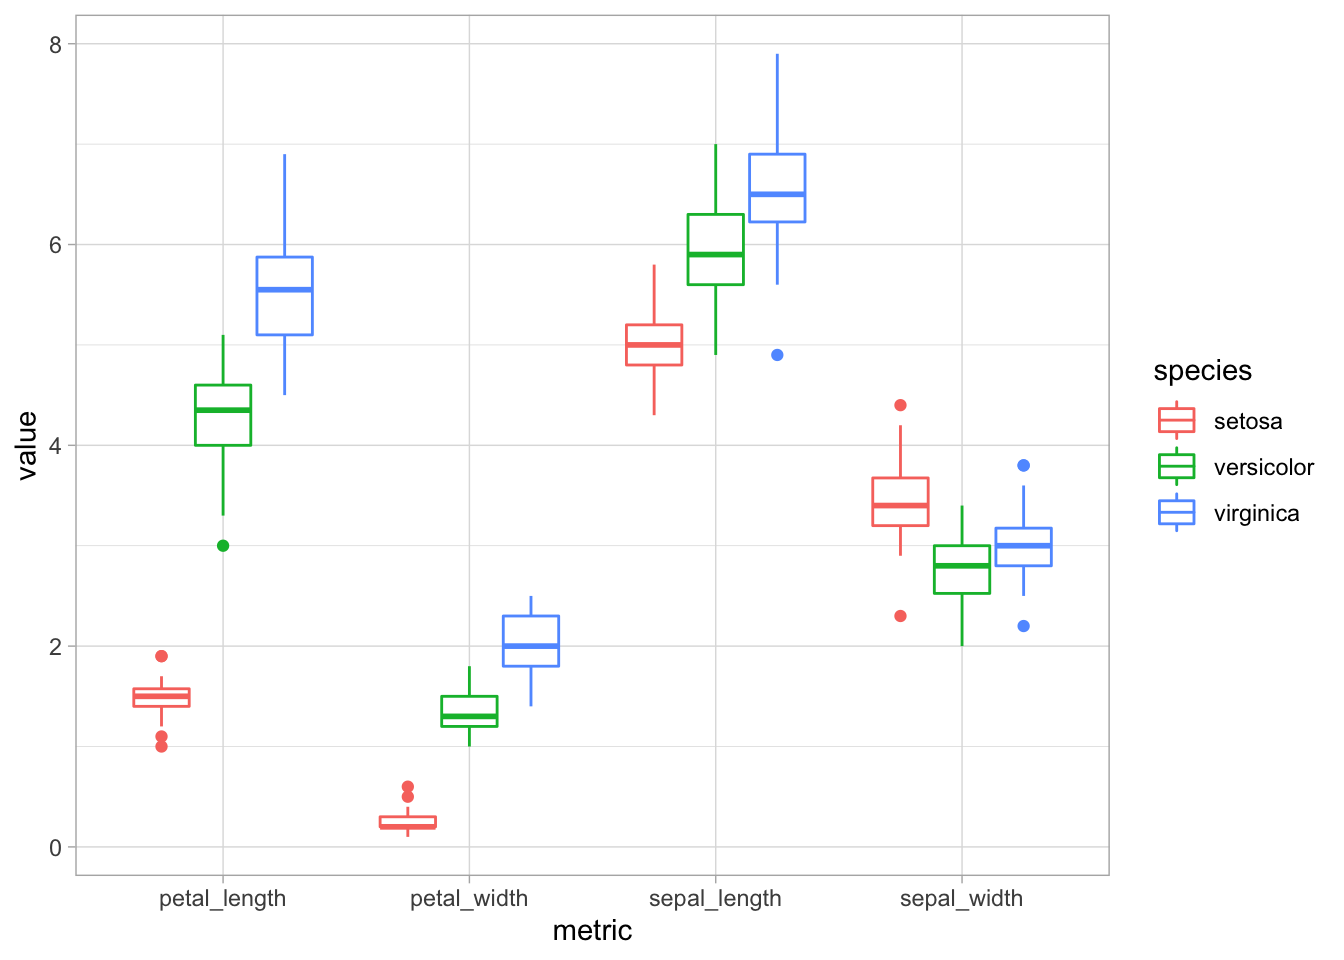
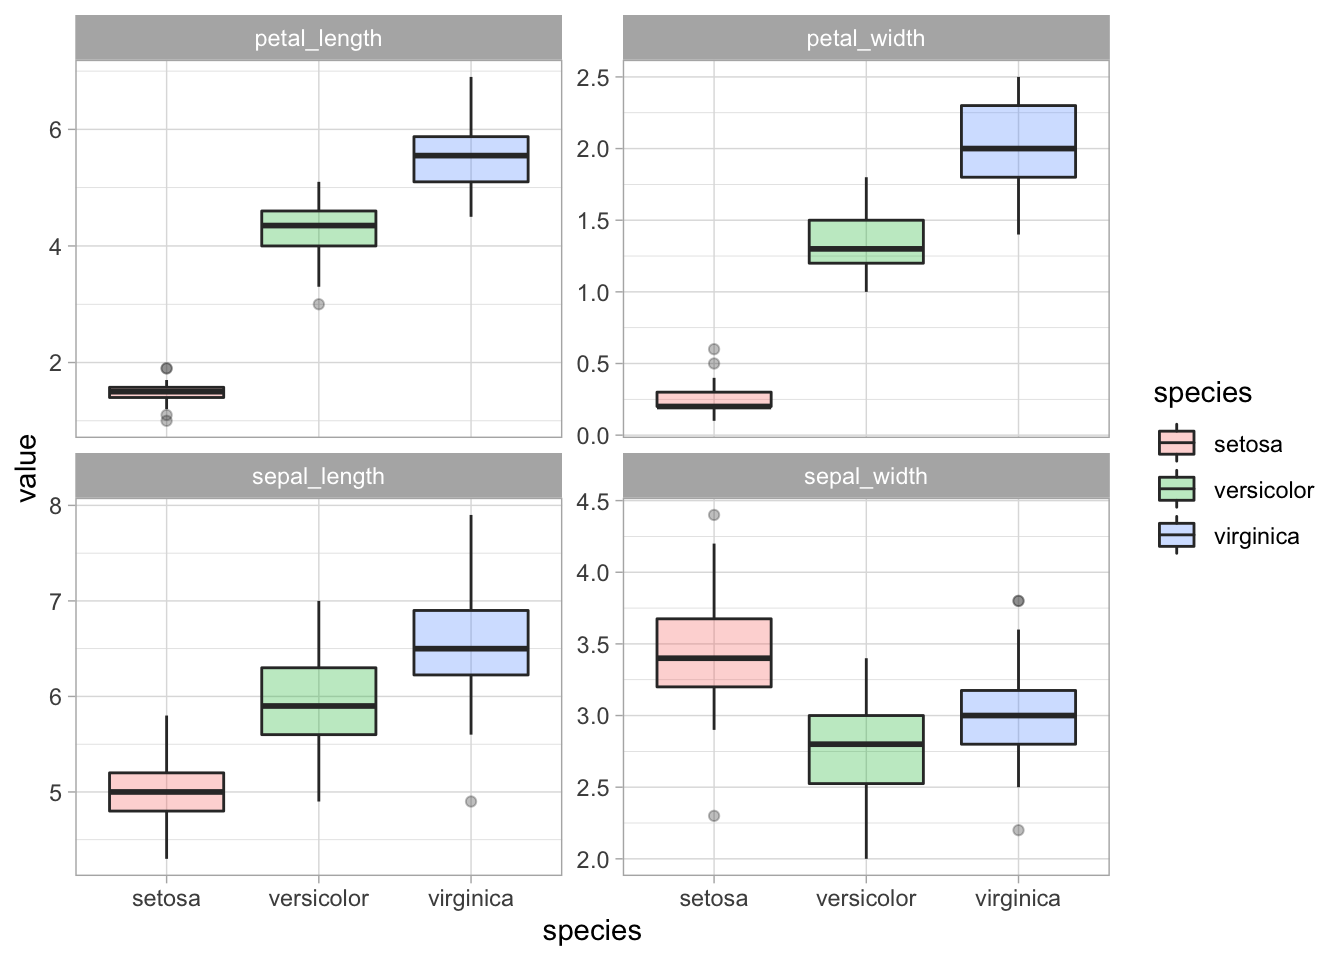
updated iris post

diff --git a/content/post/2020-10-21-iris-data/index.html b/content/post/2020-10-21-iris-data/index.html
@@ -24,8 +24,8 @@ projects: []
 <script src="{{< blogdown/postref >}}index_files/header-attrs/header-attrs.js"></script>
 
 
-<div id="iris-data" class="section level1">
-<h1>Iris data</h1>
+<div id="iris-data" class="section level2">
+<h2>Iris data</h2>
 <p>The iris dataset is a classic, so much so that it’s included in the datasets package that comes with every installation of R. You can use <code>data()</code> to see a list of all available datasets. Datasets that are associated with packages can be found in a similar way, e.g., <code>data(package = 'dplyr')</code>.</p>
 <p>Let’s take a look at the data.</p>
 <pre class="r"><code># load the iris data set and clean the column names with janitor::clean_names()
@@ -54,63 +54,85 @@ iris_df %&gt;%  str()</code></pre>
 ##  $ petal_length: num  1.4 1.4 1.3 1.5 1.4 1.7 1.4 1.5 1.4 1.5 ...
 ##  $ petal_width : num  0.2 0.2 0.2 0.2 0.2 0.4 0.3 0.2 0.2 0.1 ...
 ##  $ species     : Factor w/ 3 levels &quot;setosa&quot;,&quot;versicolor&quot;,..: 1 1 1 1 1 1 1 1 1 1 ...</code></pre>
-<p>The data is clean but with only 150 observations, it’s worth questioning whether a reliable model can be generated. There are four variables or features (sepal length and width, and petal length and width) in our data and three unique species.</p>
-<p><strong>Let’s use the data to create a classification model that predicts the species of iris based on a flower’s measurements.</strong></p>
+<p>The dataset contains three unique species of Iris and four variables or features (sepal length and width, and petal length and width). The data is clean but with only 150 observations it’s a wee bit small for training a model. To compensate for this, we will use bootstrap resampling.</p>
+<div id="outline" class="section level4">
+<h4>Outline</h4>
+<p><strong>Train a classification model to predict flower species based on the four available features</strong></p>
+<p>The model formula will have the form <code>species ~ .</code> where <code>.</code> represents all explanatory variables in the data.</p>
+</div>
 </div>
 <div id="visualize-relationships" class="section level1">
 <h1>Visualize relationships</h1>
 <p>Before we do any kind of machine learning, it’s helpful to visualize the data and develop a better understanding of the variables as well as their relationships. This will also give us a stronger intuitive sense about the potential predictive power of the data.</p>
-<pre class="r"><code>sepal &lt;- iris_df %&gt;% 
+<pre class="r"><code>library(ggforce)
+
+sepal &lt;- iris_df %&gt;% 
   ggplot(aes(sepal_length, sepal_width, color = species)) +
-  geom_point(size = 1) + facet_wrap(~species) +
+  geom_point(size = 1) + 
+  facet_wrap(~species) +
   labs(x = &#39;sepal length&#39;,
        y = &#39;sepal width&#39;) +
   theme(legend.position = &#39;none&#39;) 
 
 petal &lt;- iris_df %&gt;% 
   ggplot(aes(petal_length, petal_width, color = species)) +
-  geom_point(size =1) + facet_wrap(~species) +
+  geom_point(size =1) + 
+  facet_wrap(~species) +
   labs(x = &#39;petal length&#39;,
        y = &#39;petal width&#39;) +
   theme(legend.position = &#39;none&#39;) 
 
-(petal/sepal) # patchwork allows us to arrange plots side-by-side or stacked but there&#39;s a better way..</code></pre>
+(petal/sepal) # patchwork allows us to arrange plots side-by-side or stacked </code></pre>
 <p><img src="{{< blogdown/postref >}}index_files/figure-html/unnamed-chunk-2-1.png" width="672" /></p>
-</div>
-<div id="tidy-the-dataset" class="section level1">
-<h1>Tidy the dataset</h1>
-<p>Let’s change the shape of our data by combining the four iris features into a single column (named <code>metric</code>) and the associated values will populate a new column (named <code>value</code>). This transformation into a longer dataset can be achieved with the function <code>pivot_longer()</code>. As we shall see, the tidy format lends itself to data visualization and analysis with the tidyverse.</p>
+<pre class="r"><code>sl_sw &lt;- iris_df %&gt;% 
+  ggplot(aes(sepal_length, sepal_width, color = species)) +
+  geom_point(size = 1) +
+  labs(x = &#39;sepal length&#39;,
+       y = &#39;sepal width&#39;) +
+  theme(legend.position = &#39;none&#39;)
+
+sl_sw + 
+  geom_mark_hull(
+    aes(fill = NULL, label = species),
+    concavity = 2) +
+  labs(title = &quot;Comparing sepal length vs sepal width across species&quot;)</code></pre>
+<p><img src="{{< blogdown/postref >}}index_files/figure-html/unnamed-chunk-2-2.png" width="672" /></p>
+<pre class="r"><code>pl_pw &lt;- iris_df %&gt;% 
+  ggplot(aes(petal_length, petal_width, color = species)) +
+  geom_point(size =1) + 
+  labs(x = &#39;petal length&#39;,
+       y = &#39;petal width&#39;) +
+  theme(legend.position = &#39;none&#39;) 
+
+pl_pw + 
+  geom_mark_hull(
+    aes(fill = NULL, label = species),
+    concavity = 2) +
+  labs(title = &quot;Comparing petal length vs petal width across species&quot;)</code></pre>
+<p><img src="{{< blogdown/postref >}}index_files/figure-html/unnamed-chunk-2-3.png" width="672" /></p>
+<p>Let’s change the shape of our data by combining the four iris features into a single column (<code>metric</code>) and the associated values will populate a new column (<code>value</code>). This transformation into a longer dataset can be achieved with the function <code>pivot_longer()</code>.</p>
 <pre class="r"><code>iris_df_long &lt;- iris_df %&gt;%  
   pivot_longer(cols = sepal_length:petal_width,
                names_to = &#39;metric&#39;,
                values_to =&#39;value&#39;) 
-# A boxplot is a great way to see the median values of our features by species.
-iris_df_long %&gt;% 
-  ggplot(aes(metric, value, color = species)) +
-  geom_boxplot() </code></pre>
-<p><img src="{{< blogdown/postref >}}index_files/figure-html/unnamed-chunk-3-1.png" width="672" /></p>
-<pre class="r"><code># A nice alternative is to facet by the metric to convey the same information but with added clarity. 
+
+
+# A boxplot is a great way to compare the distribution of each features by species.
 iris_df_long %&gt;%
-  ggplot(aes(species, value, color = species)) +
+  ggplot(aes(species, value, fill = species)) +
   geom_boxplot(alpha = 0.3) +
   facet_wrap(~ metric, scales = &quot;free_y&quot;)</code></pre>
-<p><img src="{{< blogdown/postref >}}index_files/figure-html/unnamed-chunk-3-2.png" width="672" /></p>
-<pre class="r"><code># The same information can be displayed by comparing the distributions in histogram.
-iris_df_long %&gt;%
-  ggplot(aes(value, fill = species)) +
-  geom_histogram(bins = 20, alpha = 0.7) +
-  facet_wrap(~ metric, scales = &quot;free_x&quot;)</code></pre>
-<p><img src="{{< blogdown/postref >}}index_files/figure-html/unnamed-chunk-3-3.png" width="672" /></p>
-<pre class="r"><code># geom_denisty is a nice alternative to geom_histogram.
+<p><img src="{{< blogdown/postref >}}index_files/figure-html/unnamed-chunk-3-1.png" width="672" /></p>
+<pre class="r"><code># Looking at the data in a different way, geom_density is a nice alternative to geom_histogram.
+
 iris_df_long %&gt;% 
   ggplot(aes(value, fill = species)) +
   geom_density(alpha = .5) +
   facet_wrap(~ metric, scales = &quot;free&quot;)</code></pre>
-<p><img src="{{< blogdown/postref >}}index_files/figure-html/unnamed-chunk-3-4.png" width="672" /></p>
-</div>
-<div id="get-modelling" class="section level1">
-<h1>Get modelling</h1>
-<p>Before we get to modeling, we need to split the data. By default, <code>initial split()</code> provides a 75:25 split for our train and test sets respectively. Since our dataset is small, we are going to take the training set and make bootstrap resamples. The function <code>bootstraps()</code> will take the training data, further split it into a training and test set, then repeat this process with replacement a specified number of times.</p>
+<p><img src="{{< blogdown/postref >}}index_files/figure-html/unnamed-chunk-3-2.png" width="672" /></p>
+<div id="splitting-the-data-into-training-and-test-sets" class="section level2">
+<h2>Splitting the data into training and test sets</h2>
+<p>By default, <code>initial split()</code> provides a 75:25 split for our train and test sets respectively. Since our dataset is small to begin with, we are going to make bootstrap resamples from the training data. The function <code>bootstraps()</code> will split the data into training and test sets, then repeat this process with replacement a specified number of times (25 is the default).</p>
 <pre class="r"><code>set.seed(123)
 tidy_split &lt;- initial_split(iris_df)
 tidy_split</code></pre>
@@ -137,11 +159,11 @@ iris_boots</code></pre>
 ## 10 &lt;split [112/37]&gt; Bootstrap10
 ## # … with 20 more rows</code></pre>
 </div>
-<div id="recipes" class="section level1">
-<h1>Recipes</h1>
+<div id="recipes" class="section level2">
+<h2>Recipes</h2>
 <p>Recipes is a powerful tool with functions for a wide range of feature engineering tasks designed to prepare data for modeling. Typing <code>recipes::</code> into the Rstudio console is a great way to browse the available functions in the package.</p>
 <p><img src="recipes_functions.jpg" /></p>
-<p>Let’s create a recipe to demonstrate how easy it is to apply feature engineering. There is really no need for feature engineering with this dataset, so we won’t actually use this recipe in the final workflow.</p>
+<p>Let’s create a simple recipe to demonstrate optional feature engineering steps for our numeric data.</p>
 <pre class="r"><code>iris_rec &lt;- recipe(species ~., data = iris_train) %&gt;%
   step_pca(all_predictors()) %&gt;%
   step_normalize(all_predictors())
@@ -205,8 +227,8 @@ kable(head(iris_juice &lt;- juice(prep)))</code></pre>
 </tbody>
 </table>
 </div>
-<div id="creating-models-with-parsnip" class="section level1">
-<h1>Creating models with <strong>Parsnip</strong></h1>
+<div id="creating-models-with-parsnip" class="section level2">
+<h2>Creating models with <strong>Parsnip</strong></h2>
 <p>Let’s set up two different models: first, a <strong>generalized linear model</strong> or <strong>glmnet</strong>. In this step we will create the model, workflow and fit the bootstraps. Let’s take a look at the output from each step.</p>
 <pre class="r"><code># set seed
 set.seed(1234)
@@ -264,7 +286,7 @@ collect_metrics(glmnet_results)</code></pre>
 ##   &lt;chr&gt;    &lt;chr&gt;      &lt;dbl&gt; &lt;int&gt;   &lt;dbl&gt; &lt;chr&gt;               
 ## 1 accuracy multiclass 0.958    30 0.00507 Preprocessor1_Model1
 ## 2 roc_auc  hand_till  0.994    30 0.00119 Preprocessor1_Model1</code></pre>
-<p>Now for a <strong>random forest</strong> model. We only need to tweak a few things and walah!</p>
+<p>Now for a <strong>random forest</strong> model. We only need to change a few things and walah!</p>
 <pre class="r"><code>set.seed(1234)
 rf_mod &lt;- rand_forest() %&gt;%
   set_engine(&quot;ranger&quot;) %&gt;%
@@ -331,9 +353,9 @@ collect_metrics(rf_results)</code></pre>
   theme(legend.position = &#39;none&#39;)</code></pre>
 <p><img src="{{< blogdown/postref >}}index_files/figure-html/unnamed-chunk-10-1.png" width="672" /></p>
 </div>
-<div id="final-fit" class="section level1">
-<h1>Final fit</h1>
-<p>This is it! By using the <code>last_fit(tidy_split)</code>, we are able to train our model on the training set and test the model on the testing set in one fell swoop! Note, this is the only time we use the test set.</p>
+<div id="final-fit" class="section level2">
+<h2>Final fit</h2>
+<p>By using the <code>last_fit(tidy_split)</code>, we are able to train our model on the training set and test the model on the testing set in one fell swoop! Note, this is the only time we use the test set.</p>
 <pre class="r"><code>final_glmnet &lt;- glmnet_wf %&gt;%
     add_model(glmnet_mod) %&gt;%
     last_fit(tidy_split)
@@ -357,9 +379,9 @@ final_rf</code></pre>
 ##   &lt;list&gt;       &lt;chr&gt;        &lt;list&gt;        &lt;list&gt;       &lt;list&gt;          &lt;list&gt;   
 ## 1 &lt;split [112… train/test … &lt;tibble [2 ×… &lt;tibble [0 … &lt;tibble [38 × … &lt;workflo…</code></pre>
 </div>
-<div id="confusion-matrices" class="section level1">
-<h1>Confusion Matrices</h1>
-<p>Finally, let’s generate a multiclass confusion matrix with the results from our test data. The confusion matrix provides a count of each outcome for all possible outcomes. The columns contain the true values and predictions are set across rows. This confusion matrix might look confusing because all predictions are correct.</p>
+<div id="confusion-matrices" class="section level2">
+<h2>Confusion Matrices</h2>
+<p>Finally, let’s generate a multiclass confusion matrix with the results from our test data. The confusion matrix provides a count of each outcome for all possible outcomes. The columns contain the true values and the predictions are assigned to the rows.</p>
 <pre class="r"><code>collect_metrics(final_glmnet)</code></pre>
 <pre><code>## # A tibble: 2 x 4
 ##   .metric  .estimator .estimate .config             
@@ -381,8 +403,9 @@ final_rf</code></pre>
   autoplot(type = &#39;heatmap&#39;)</code></pre>
 <p><img src="{{< blogdown/postref >}}index_files/figure-html/unnamed-chunk-13-1.png" width="672" /></p>
 </div>
-<div id="final-thoughts" class="section level1">
-<h1>Final thoughts</h1>
-<p>Do the model results make sense? Both models exhibit near perfect predictive power but are they really that good? From our visual analysis, we can confidently say that the explanatory features provide a clean separation of species.</p>
+<div id="final-thoughts" class="section level2">
+<h2>Final thoughts</h2>
+<p>Both models exhibit near perfect predictive power but are they really that good? From our visual analysis, we can confidently say that the combination of explanatory features provide for a clean separation of species. So yes, our toy model is that good!</p>
 <p>I would like to thank the unsung heroes of the tidyverse and tidymodels: <strong>Julia Silge</strong>, <strong>David Robinson</strong> and <strong>Andrew Couch</strong> for creating and sharing amazing, open source learning resources.</p>
+</div>
 </div>
